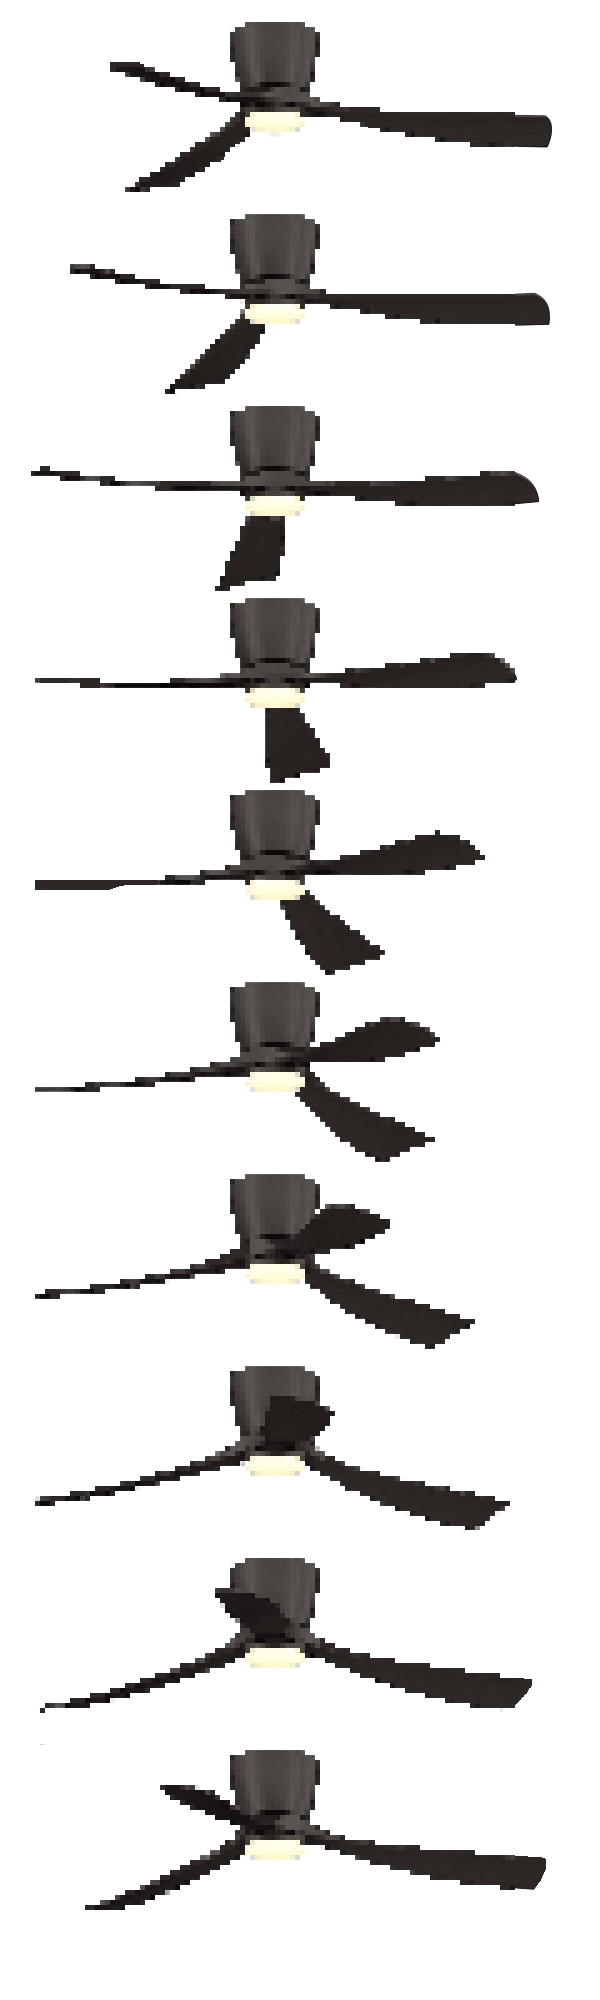
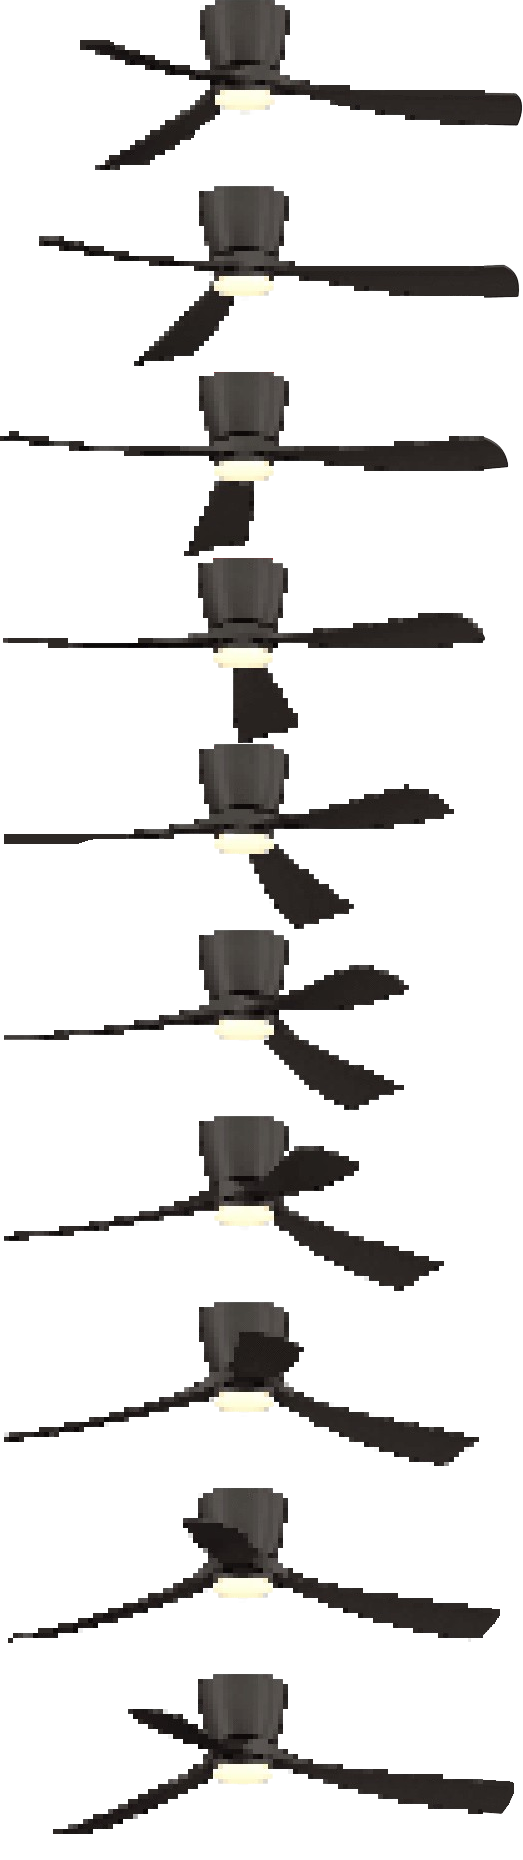
anim saut et fan

diff --git a/SFMLEngine/src/Components/Player.cpp b/SFMLEngine/src/Components/Player.cpp
@@ -15,25 +15,28 @@
 
 
 void Player::Move(const float _delta_time, std::unordered_map<sf::Keyboard::Key, bool>* pressed_input, std::vector<GameObject*>* gameObjects){
-	bool is_moving = false;
+	Maths::Vector2f start_position = GetOwner()->GetPosition();
 	for (const auto& input : *pressed_input) {
 		if (input.first == 3 && input.second == true && GetOwner()->GetComponent<SquareCollider>()->GetCanMoving()["right"]) {
 			GetOwner()->SetPosition(Maths::Vector2f(GetOwner()->GetPosition().GetX() + (speed * _delta_time), GetOwner()->GetPosition().GetY()));
-			is_moving = true;
-			GetOwner()->GetComponent<SpriteRenderer>()->SetSpriteFirstPosition(Maths::Vector2f(841, 0));
 		}else if (input.first == 16 && input.second == true && GetOwner()->GetComponent<SquareCollider>()->GetCanMoving()["left"]) {
 			GetOwner()->SetPosition(Maths::Vector2f(GetOwner()->GetPosition().GetX() - (speed * _delta_time), GetOwner()->GetPosition().GetY()));
-			is_moving = true;
-			GetOwner()->GetComponent<SpriteRenderer>()->SetSpriteFirstPosition(Maths::Vector2f(1261, 0));
 		}
 	}
-	if (is_moving) {
+
+	if (start_position != GetOwner()->GetPosition()) {
+		if (start_position.x < GetOwner()->GetPosition().x) {
+			GetOwner()->GetComponent<SpriteRenderer>()->SetSpriteFirstPosition(Maths::Vector2f(GetOwner()->GetComponent<SpriteRenderer>()->GetSpriteSize().x * 2 + 1, 0));
+		}
+		else {
+			GetOwner()->GetComponent<SpriteRenderer>()->SetSpriteFirstPosition(Maths::Vector2f(GetOwner()->GetComponent<SpriteRenderer>()->GetSpriteSize().x * 3 + 1, 0));
+		}
 		GetOwner()->SetIsAnimated(true);
+		GetOwner()->SetReverseAnimation(false);
 		GetOwner()->SetNbAnimationSprite(3);
 	}
 	else {
-		GetOwner()->SetIsAnimated(false);
-		GetOwner()->GetComponent<SpriteRenderer>()->SetNextSpriteRect(0);
+		GetOwner()->SetReverseAnimation(true);
 	}
 }
 
@@ -71,6 +74,16 @@ void Player::Jump(const float _delta_time, std::unordered_map<sf::Keyboard::Key,
 	}
 
 	if (is_jumping && GetOwner()->GetComponent<SquareCollider>()->GetCanMoving()["up"]) {
+		if (GetOwner()->GetComponent<SpriteRenderer>()->GetActualSpriteInt() != 0 && GetOwner()->GetComponent<SpriteRenderer>()->GetSpriteFirstPosition() != Maths::Vector2f(0,0)) {
+			GetOwner()->SetReverseAnimation(true);
+		}
+		else {
+			GetOwner()->SetReverseAnimation(false);
+			GetOwner()->SetIsAnimated(true);
+			GetOwner()->SetNbAnimationSprite(7);
+			GetOwner()->GetComponent<SpriteRenderer>()->SetSpriteFirstPosition(Maths::Vector2f(0, 0));
+
+		}
 		if (jumping_time.getElapsedTime().asSeconds() <= 0.4) {
 		GetOwner()->SetPosition(Maths::Vector2f(GetOwner()->GetPosition().GetX(), GetOwner()->GetPosition().GetY() - (sizeWindow.y * 0.3 * _delta_time)));
 		}

diff --git a/Game/Scenes/Level3.cpp b/Game/Scenes/Level3.cpp
@@ -5,8 +5,8 @@ void DefaultScene::SpawnObjectLevel3() {
 	sf::Vector2f window_size = sf::Vector2f(Engine::GetInstance()->GetModuleManager()->GetModule<WindowModule>()->GetWindowSize().x, Engine::GetInstance()->GetModuleManager()->GetModule<WindowModule>()->GetWindowSize().y);
 
 
-    SetTexture("background", "Assets/background/level_3_background.png");
-    SetBackground("background");
+	SetTexture("background", "Assets/background/level_3_background.png");
+	SetBackground("background");
 	SetTexture("texture_livre", "Assets/Object/livre.png");
 	SetTexture("texture_interrupteur", "Assets/Object/interrupteur.png");
 	SetTexture("texture_fan", "Assets/Object/fan_gif.png");
@@ -27,8 +27,10 @@ void DefaultScene::SpawnObjectLevel3() {
 	CreateColliderObject(this, ColliderType, "Table_de_chevet", Maths::Vector2f(sizeX * 1.97917, sizeY * 74.1667), Maths::Vector2f(sizeX * 9.94792, sizeY * 18.6111));
 
 	//Ceiling fan
-	CreateColliderObject(this, DeathType, "Fan", Maths::Vector2f(sizeX * 3.59375, sizeY * 1.57407), Maths::Vector2f(sizeX * 16.875, sizeY * 6.48148));
-	CreateSpriteObject(this, DeathType, "Fan", Maths::Vector2f(sizeX * 3.59375, sizeY * 1.57407), Maths::Vector2f(sizeX * 16.875, sizeY * 6.48148), "texture_fan", Maths::Vector2f(0, 0), Maths::Vector2f(0, 0));
+	GameObject* fan = CreateSpriteObject(this, DeathType, "Fan", Maths::Vector2f(sizeX * 3.59375, sizeY * 1.57407), Maths::Vector2f(sizeX * 16.875, sizeY * 6.48148), "texture_fan", Maths::Vector2f(523, 185), Maths::Vector2f(0, 1));
+	fan->SetIsAnimated(true);
+	fan->SetNbAnimationSprite(10);
+	fan->SetAnimatedLoop(true);
 
 	//Ours
 	CreateColliderObject(this, ColliderType, "Ours", Maths::Vector2f(sizeX * 25.8333, sizeY * 55.1852), Maths::Vector2f(sizeX * 2.70833, sizeY * 5.09259));

diff --git a/SFMLEngine/include/Components/SpriteRenderer.h b/SFMLEngine/include/Components/SpriteRenderer.h
@@ -13,6 +13,8 @@ public:
 	float GetWidth() const { return width; }
 	sf::Sprite* GetSprite() { return sprite; }
 	sf::Texture* GetTextureSprite() { return texture; }
+	Maths::Vector2f GetSpriteSize() { return sprite_size; }
+	Maths::Vector2f GetSpriteFirstPosition() { return sprite_first_position; }
 	int GetActualSpriteInt() { return nb_actual_sprite; }
 
 	void SetWidth(const float _width) { width = _width; }
